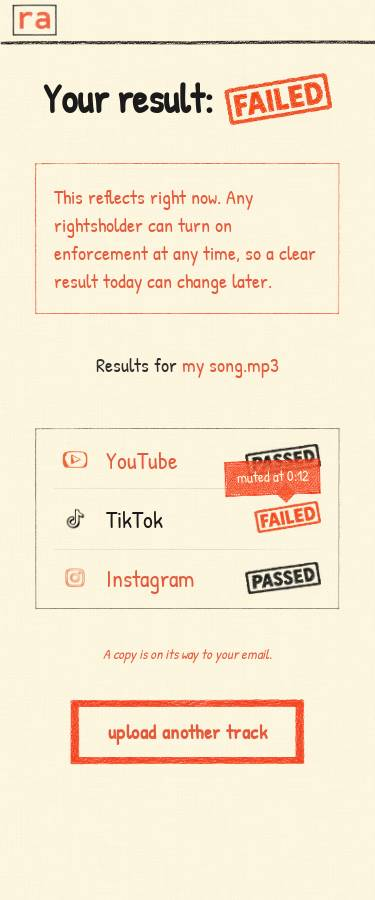
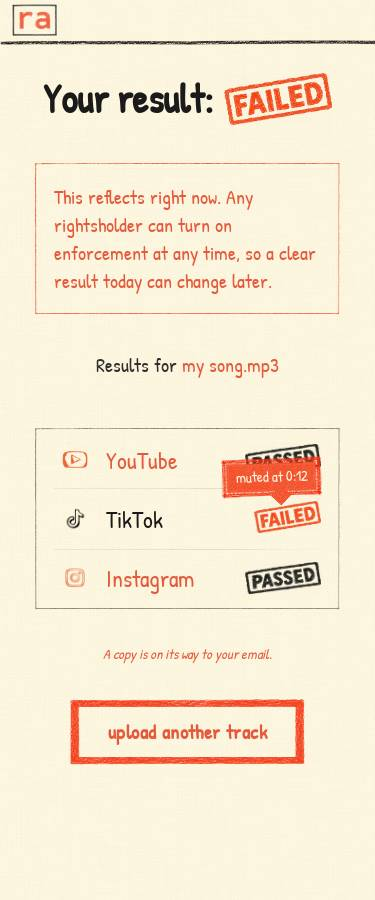
MS-004 fix (Reject6): FAILED-stamp context tip opaque with a sketched border
The tip stretched Creator's banner asset as a background, which at this size
thinned its ink edge away and let the cream show through. Draw the same asset
as a border image the way Creator's .banner-sketched draws it small (fill +
outset; slice 40 at a 5px border keeps the double ink line crisp) over solid
brand red, so the box reads opaque with a visible sketched border. Tail gets
the same solid red. Only .platform-stamp-tip changes; styles.css cache-bust
ms004-r6. e2e asserts the chrome and waits for the fade-in to finish.

Stamps, Reject4 centring, under-row removal, email / Resend / bot and the
harness untouched.

Changed region(s): [[0.5867, 0.4978, 0.88, 0.56]]

diff --git a/clearance-check/public/styles.css b/clearance-check/public/styles.css
@@ -491,7 +491,22 @@ h1, h2, h3, p { margin: 0; }
   outline: 2px solid hsl(var(--brand-accent));
   outline-offset: 2px;
 }
+/* Reject6: CF's tip chrome held up at this size: an opaque bubble with the
+   banner's sketched ink edge. The banner asset is drawn as a border image the
+   way Creator's .banner-sketched draws it small (fill + outset), sliced at 40
+   so the double ink line stays crisp at a 5px border, over solid brand red,
+   instead of stretching the whole asset as a background (which thins the edge
+   away and lets the cream show through). */
 .platform-stamp-tip {
+  background: var(--color-red);
+  background-clip: padding-box;
+  border-image-source: url('/brand-assets/frames/frame-banner-heavy-red-filled.webp');
+  border-image-slice: 40 fill;
+  border-image-repeat: stretch;
+  border-width: 5px;
+  border-style: solid;
+  border-image-outset: 1px;
+  padding: 4px 8px 6px;
   left: auto;
   right: 0;
   transform-origin: right bottom;
@@ -502,8 +517,11 @@ h1, h2, h3, p { margin: 0; }
   line-height: 1.15;
   text-align: center;
 }
-/* Tail under the stamp, not under the right-pinned bubble's centre. */
+/* Tail under the stamp, not under the right-pinned bubble's centre; solid red
+   under its crosshatch like the bubble. */
 .platform-stamp-tip::after {
+  background-color: var(--color-red);
+  top: calc(100% - 2px);
   left: auto;
   right: 28px;
   transform: rotate(45deg);

diff --git a/clearance-check/public/r/index.html b/clearance-check/public/r/index.html
@@ -9,7 +9,7 @@
   <link rel="preconnect" href="https://fonts.googleapis.com">
   <link rel="preconnect" href="https://fonts.gstatic.com" crossorigin>
   <link href="https://fonts.googleapis.com/css2?family=Patrick+Hand&family=Inter:wght@400;500;600;700&display=swap" rel="stylesheet">
-  <link rel="stylesheet" href="/styles.css?v=ms004-r5">
+  <link rel="stylesheet" href="/styles.css?v=ms004-r6">
   <meta name="robots" content="noindex">
 </head>
 <body>

diff --git a/clearance-check/public/index.html b/clearance-check/public/index.html
@@ -9,7 +9,7 @@
   <link rel="preconnect" href="https://fonts.googleapis.com">
   <link rel="preconnect" href="https://fonts.gstatic.com" crossorigin>
   <link href="https://fonts.googleapis.com/css2?family=Patrick+Hand&family=Inter:wght@400;500;600;700&display=swap" rel="stylesheet">
-  <link rel="stylesheet" href="/styles.css?v=ms004-r5">
+  <link rel="stylesheet" href="/styles.css?v=ms004-r6">
 </head>
 <body>
   <div class="page surface-sketched">
